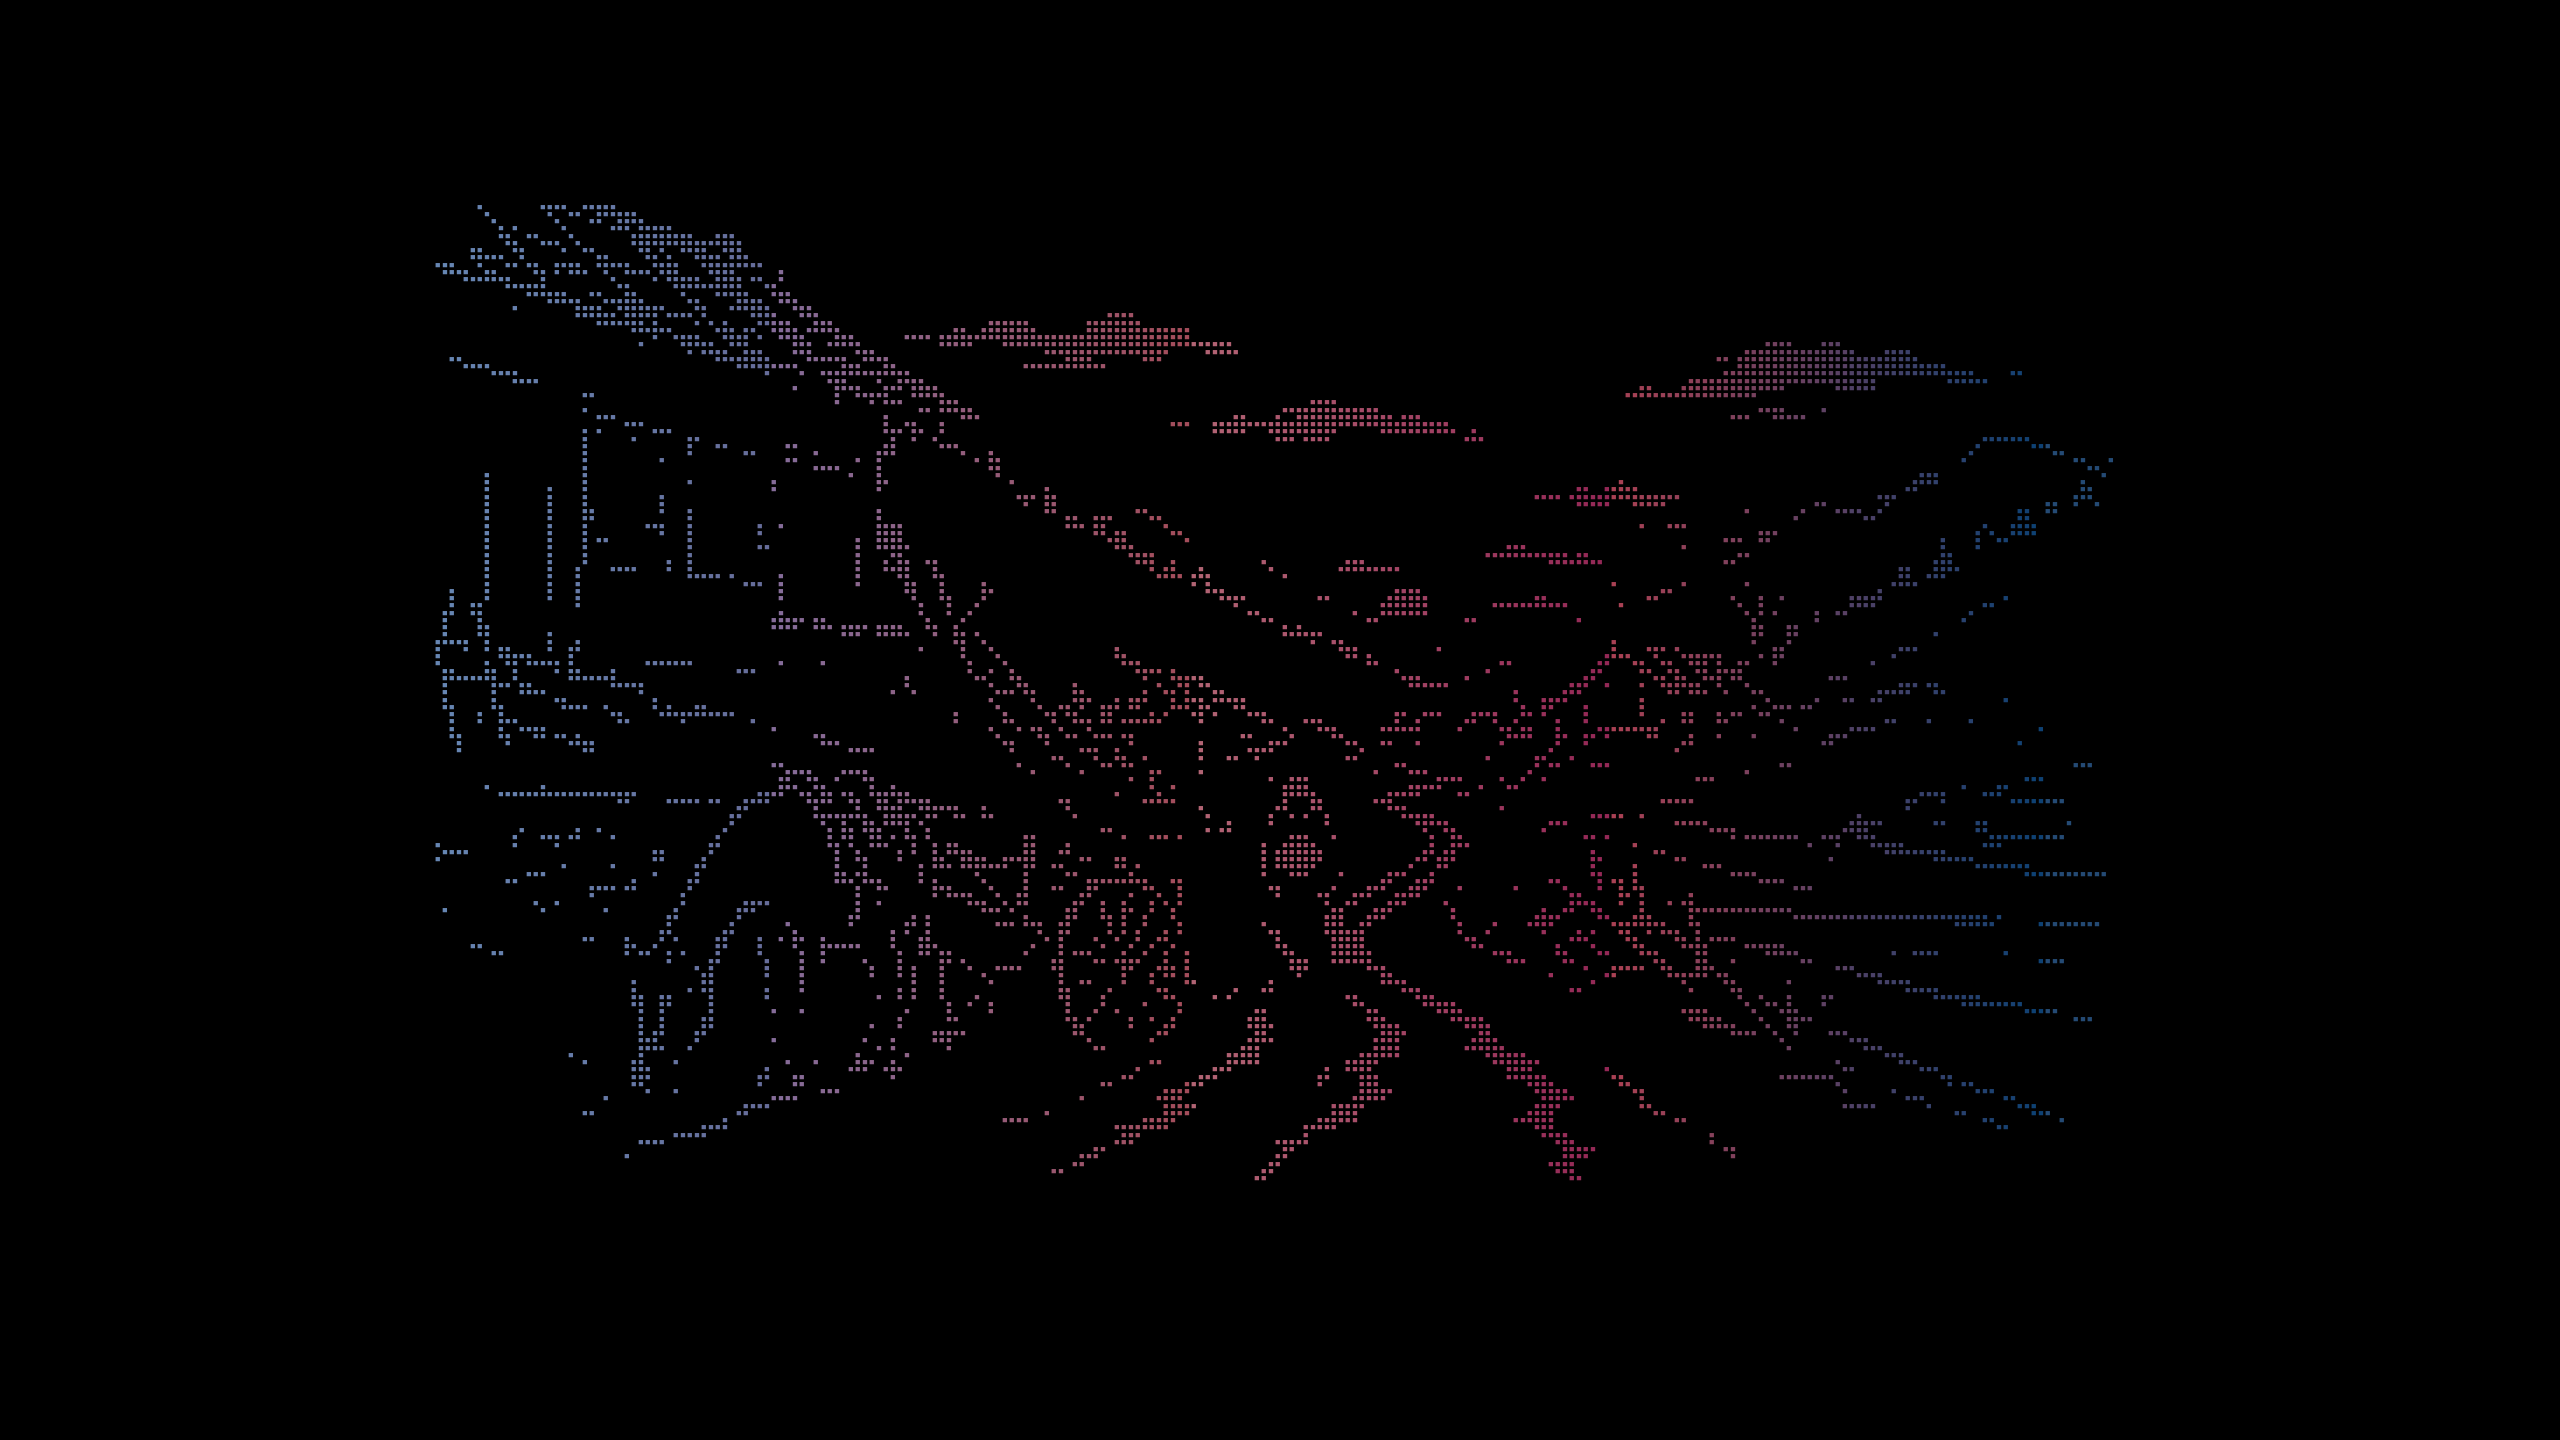
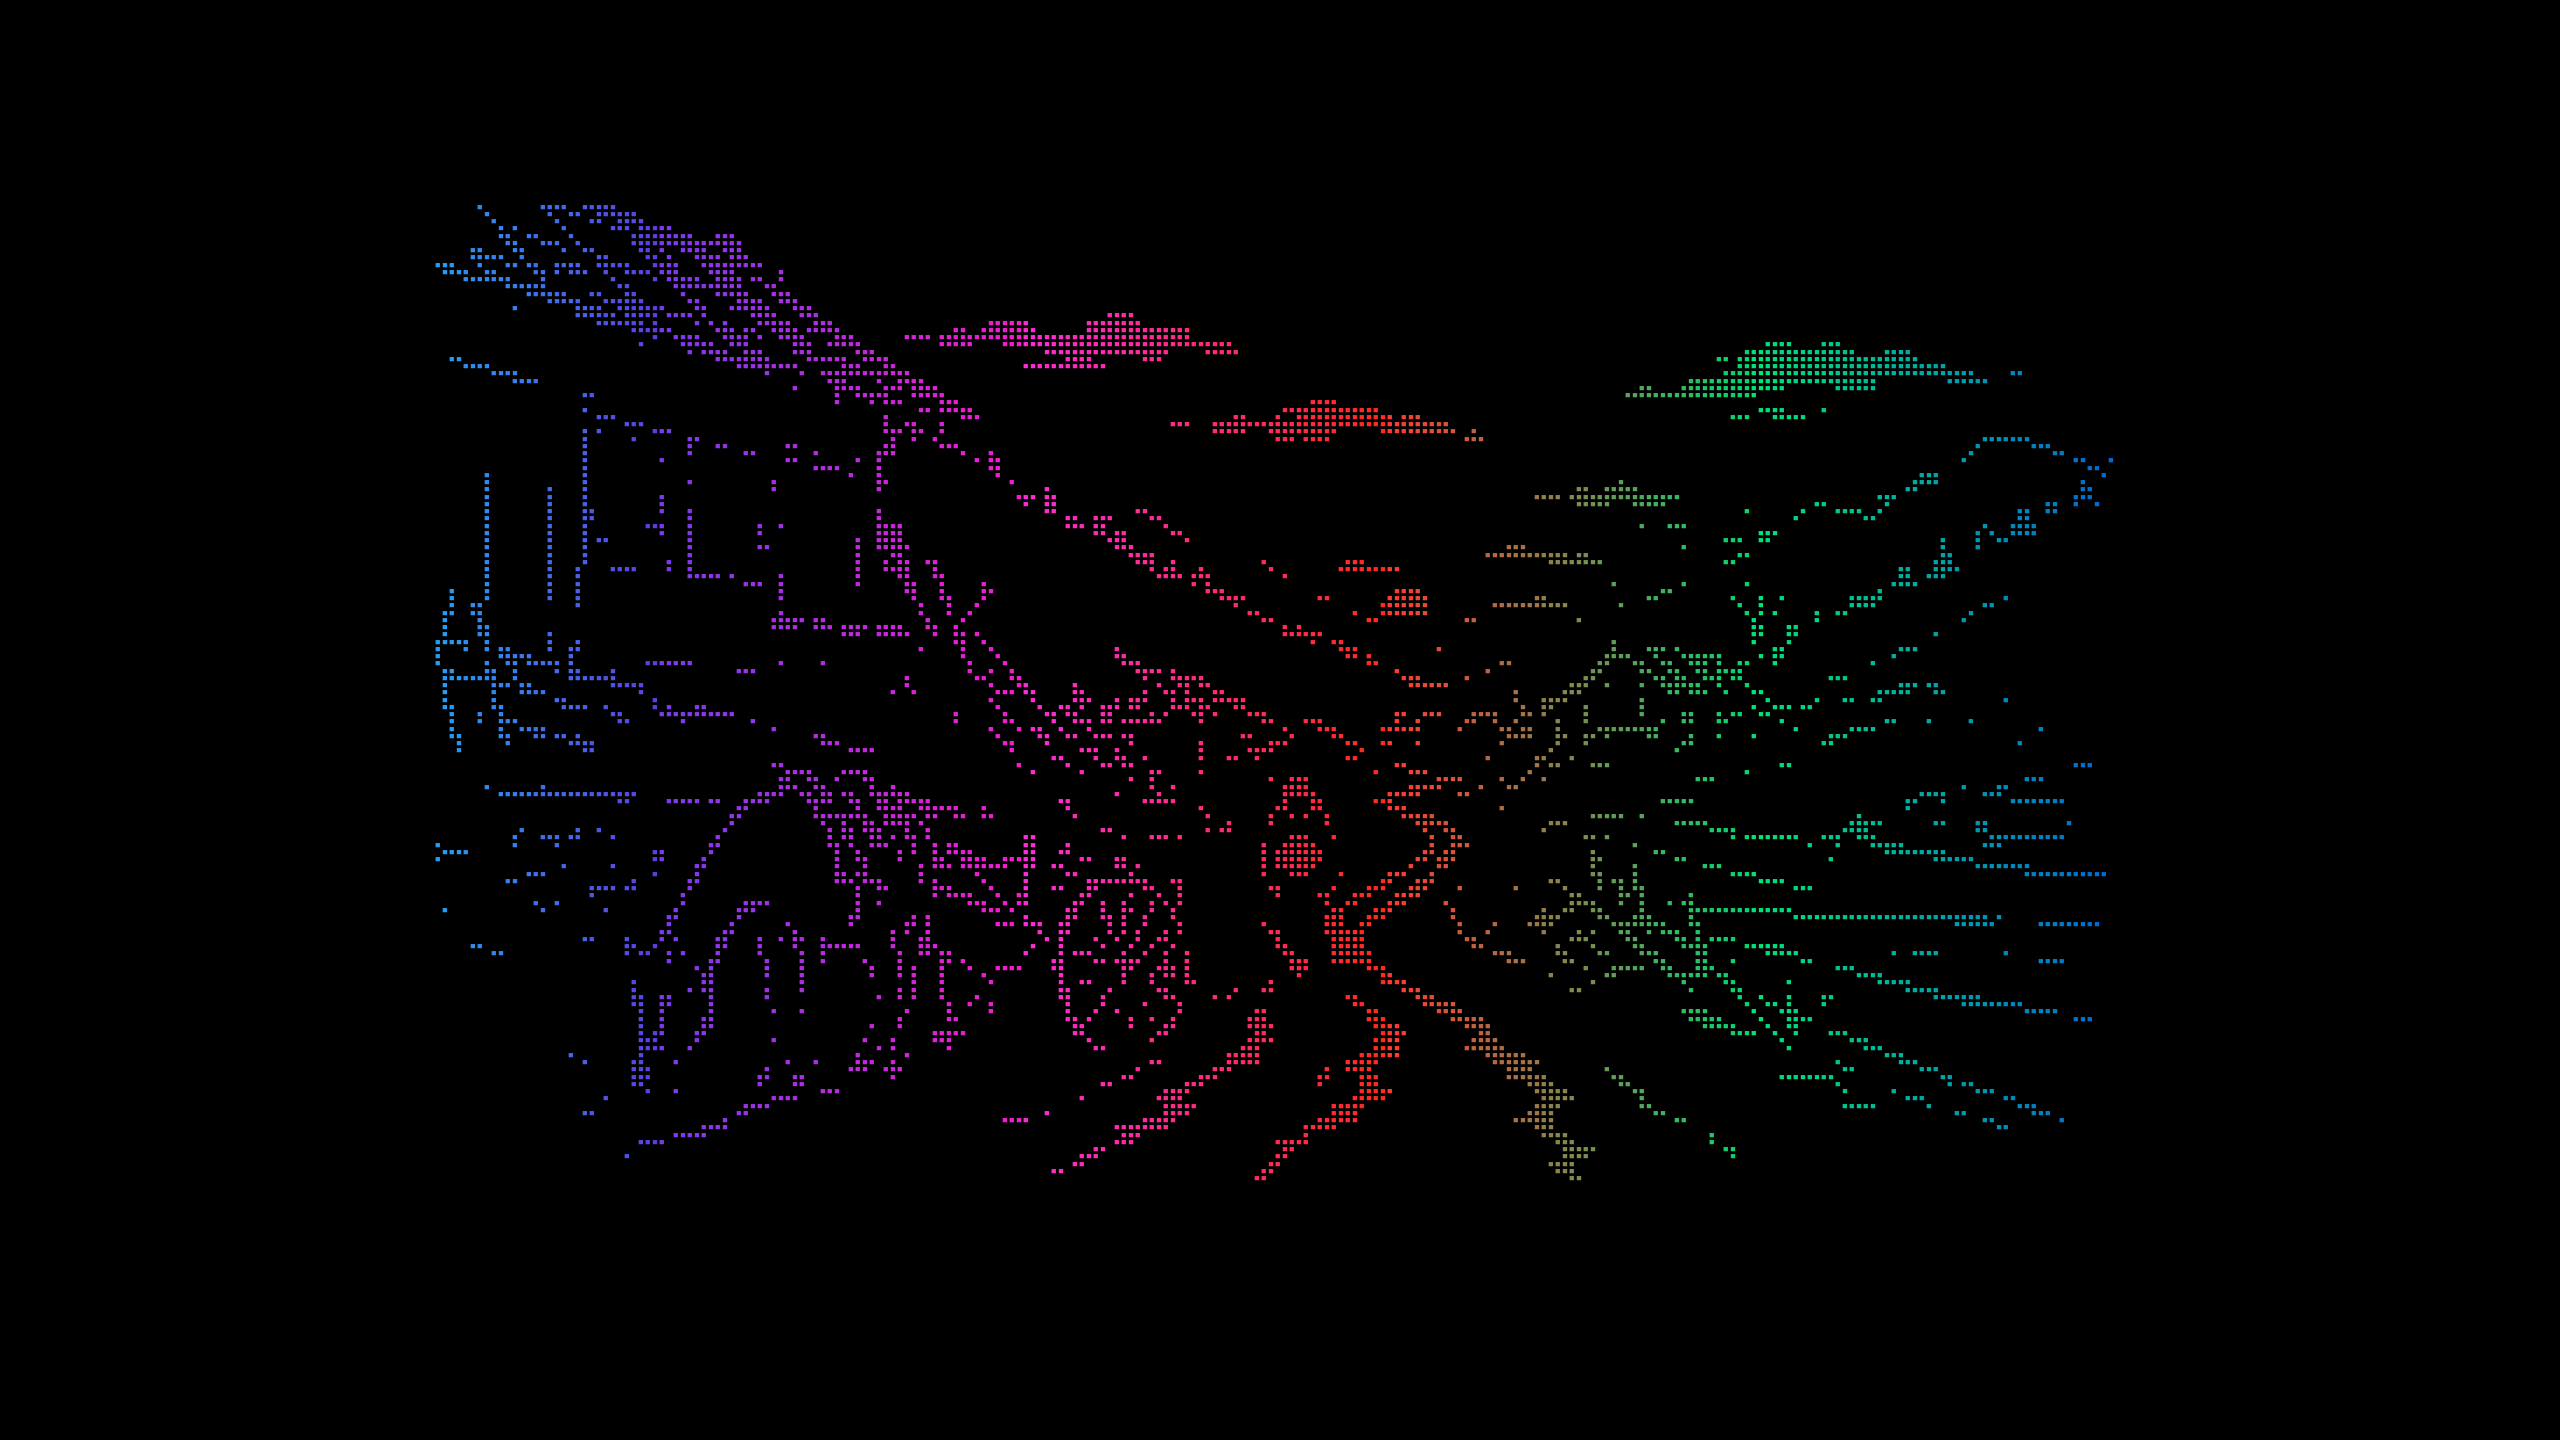
Refine screensaver with shuffled RGB scenes

diff --git a/tests/test_screensaver.py b/tests/test_screensaver.py
@@ -1,4 +1,5 @@
 """Exercise routing without launching a desktop or changing user configuration."""
+import os
 import subprocess
 import tempfile
 import unittest
@@ -10,6 +11,8 @@ class ScreensaverRouting(unittest.TestCase):
         self.temp = tempfile.TemporaryDirectory(prefix="violet-oni-routing-")
         self.addCleanup(self.temp.cleanup)
         self.root = Path(self.temp.name)
+        self.env = os.environ.copy()
+        self.env["XDG_STATE_HOME"] = str(self.root / ".state")
         self.engine = self.root / "engine"
         self.engine.write_text("#!/bin/bash\nprintf '%s\\0' \"$@\"\n")
         self.engine.chmod(0o755)
@@ -20,25 +23,41 @@ class ScreensaverRouting(unittest.TestCase):
         self.wrapper = self.root / "ttfx"
         self.wrapper.write_text(source)
         self.state = self.root / ".local/state/omarchy/current"
-        self.scene = self.state / "theme/screensaver/scene.txt"
-        self.scene.parent.mkdir(parents=True)
-        self.scene.write_text("scene\n")
+        self.scene_dir = self.state / "theme/screensaver"
+        self.scene_dir.mkdir(parents=True)
+        self.scenes = []
+        for name in ("scene-03-road-of-ashes.txt", "scene-04-last-light-valley.txt",
+                     "scene-05-ruined-shrine-road.txt", "scene-06-moonlit-mountain-pass.txt"):
+            scene = self.scene_dir / name
+            scene.write_text(name + "\n")
+            self.scenes.append(scene)
+        (self.scene_dir / "scene.txt").write_text("legacy\n")
         (self.state / "theme.name").write_text("violet-oni\n")
         self.branding = str(self.root / ".config/omarchy/branding/screensaver.txt")
         self.native = ["-i", self.branding, "--frame-rate", "120", "--canvas-width", "0",
                        "--reuse-canvas", "--random-effect", "--no-eol", "--no-restore-cursor"]
 
     def run_args(self, args):
-        result = subprocess.run(["bash", str(self.wrapper), *args], check=True, capture_output=True)
+        result = subprocess.run(["bash", str(self.wrapper), *args], check=True,
+                                capture_output=True, env=self.env)
         return result.stdout.decode().rstrip("\0").split("\0")
 
-    def test_native_invocation_gets_scene_and_slow_effect(self):
-        args = self.run_args(self.native)
-        self.assertEqual(args[args.index("-i") + 1], str(self.scene))
-        self.assertEqual(args[args.index("--frame-rate") + 1], "12")
-        self.assertNotIn("--random-effect", args)
-        self.assertIn("colorshift", args)
-        self.assertEqual(args[args.index("--gradient-frames") + 1], "4")
+    def test_native_invocation_gets_shuffled_scene_and_moderate_effect(self):
+        selected = []
+        for _ in range(12):
+            args = self.run_args(self.native)
+            selected.append(args[args.index("-i") + 1])
+            self.assertIn(selected[-1], {str(scene) for scene in self.scenes})
+            self.assertEqual(args[args.index("--frame-rate") + 1], "24")
+            self.assertNotIn("--random-effect", args)
+            self.assertIn("colorshift", args)
+            self.assertEqual(args[args.index("--gradient-frames") + 1], "8")
+            self.assertIn("087cf2", args)
+            self.assertIn("00d9ff", args)
+            self.assertIn("ff2bd6", args)
+            self.assertIn("00e676", args)
+        self.assertTrue(all(a != b for a, b in zip(selected, selected[1:])))
+        self.assertEqual(set(selected), {str(scene) for scene in self.scenes})
         self.assertIn("--reuse-canvas", args)
         self.assertIn("--no-restore-cursor", args)
 
@@ -47,7 +66,9 @@ class ScreensaverRouting(unittest.TestCase):
         self.assertEqual(self.run_args(self.native), self.native)
 
     def test_missing_scene_is_untouched(self):
-        self.scene.unlink()
+        for scene in self.scenes:
+            scene.unlink()
+        (self.scene_dir / "scene.txt").unlink()
         self.assertEqual(self.run_args(self.native), self.native)
 
     def test_ordinary_calls_are_untouched(self):

diff --git a/artwork/aftermath/PROMPTS.md b/artwork/aftermath/PROMPTS.md
@@ -29,12 +29,29 @@ omarchy transcode ascii screensaver/source.png screensaver/scene.txt --width 120
 
 The color animation is rendered at runtime by the native `ttfx colorshift` effect; it is not a video or an animated bitmap.
 
+## Ruined Shrine Road
+
+Source: `05-ruined-shrine-road-source.png`, 1672 × 941. This scene was generated as a new environmental interpretation for the multi-scene screensaver:
+
+Use case: historical-scene. Asset type: 16:9 desktop wallpaper source for an Omarchy theme. Create a cinematic photorealistic early Edo-period Japanese shrine path after a devastating war, seen at dusk from a wide quiet perspective. A damaged vermilion torii gate and small weathered shrine stand beside a winding dirt path. Torn prayer strips and faded cloth banners move gently in the wind. A broken handcart, extinguished lanterns, scattered roof tiles, and trampled grass suggest displacement without showing violence. A single tiny fully clothed adult traveler in simple period garments walks away in the middle distance; no child and no samurai character. Hills and dark cedar trees recede into smoky blue haze beneath a dramatic sunset band. Cinematic realism, tactile natural materials, historically grounded early Edo Japan, restrained film still. Deep cobalt and midnight blue shadows, cyan haze, violet transition tones, muted crimson and scarlet sunset. No active battle, bodies, gore, injuries, weapons in use, modern objects, text, logos, or watermark.
+
+## Moonlit Mountain Pass
+
+Source: `06-moonlit-mountain-pass-source.png`, 1672 × 941. This scene was generated as a new environmental interpretation for the multi-scene screensaver:
+
+Use case: historical-scene. Asset type: 16:9 desktop wallpaper source for an Omarchy theme. Create a cinematic photorealistic early Edo-period Japanese mountain pass at blue hour after war, viewed as a broad environmental landscape. A narrow road climbs between wind-bent pines and jagged dark ridges. Abandoned wooden way markers, a torn standard, a simple sheathed sword beside a travel bundle, and a half-collapsed roadside shelter suggest a vanished journey. Faint violet mist curls through the ravine like an uncanny oni presence, atmospheric and ambiguous rather than a literal creature. No child and no samurai character; no foreground people. Last light fades into blue hour with cold moonlit haze, cobalt and electric blue shadows, cyan edge light, violet and magenta mist, ember-red horizon, and small green accents in moss and distant lantern glass. No active battle, bodies, gore, injuries, modern objects, readable writing, text, logos, or watermark.
+
 ## Resolution exports
 
-Both landscape sources were resized with ImageMagick's Lanczos filter to exact 2560 × 1440 and 3840 × 2160 dimensions. These are upscaled exports, not native 1440p or 4K generations. The tiny source aspect-ratio difference is absorbed by resizing to exact 16:9.
+All four landscape sources were resized with ImageMagick's Lanczos filter to exact 2560 × 1440 and 3840 × 2160 dimensions. These are upscaled exports, not native 1440p or 4K generations. The tiny source aspect-ratio difference is absorbed by resizing to exact 16:9.
 
 ```bash
 magick source.png -filter Lanczos -resize '2560x1440!' wallpaper.png
 magick source.png -filter Lanczos -resize '3840x2160!' export-4k.png
 ```
 
+The four source images were converted to terminal scenes with the same native command shape, using scene-specific output names:
+
+```bash
+omarchy transcode ascii source.png screensaver/scene-XX-name.txt --width 120 --height 40 --mode braille --threshold 28 --invert --no-trim
+```

diff --git a/README.md b/README.md
@@ -53,12 +53,14 @@ The cinematic wallpaper is AI-generated using the built-in image generation tool
 
 ## Aftermath backgrounds
 
-Two additional cinematic landscapes bring dusk-blue shadows and muted red sunsets to the purple interface. Both depict the quiet aftermath of war in early Edo Japan, with weary adult travelers, packhorses, damaged villages, and ravaged terrain.
+Four cinematic landscapes bring dusk-blue shadows, rich RGB highlights, and muted red sunsets to the purple interface. They depict the quiet aftermath and supernatural atmosphere of early Edo Japan, with weary travelers, damaged villages, shrine paths, ravaged terrain, and mountain mist.
 
 | Background | 1440p | 4K |
 | --- | --- | --- |
 | Road of Ashes | [2560 × 1440](backgrounds/03-road-of-ashes-2560x1440.png) | [3840 × 2160](artwork/aftermath/03-road-of-ashes-3840x2160.png) |
 | Last Light Valley | [2560 × 1440](backgrounds/04-last-light-valley-2560x1440.png) | [3840 × 2160](artwork/aftermath/04-last-light-valley-3840x2160.png) |
+| Ruined Shrine Road | [2560 × 1440](backgrounds/05-ruined-shrine-road-2560x1440.png) | [3840 × 2160](artwork/aftermath/05-ruined-shrine-road-3840x2160.png) |
+| Moonlit Mountain Pass | [2560 × 1440](backgrounds/06-moonlit-mountain-pass-2560x1440.png) | [3840 × 2160](artwork/aftermath/06-moonlit-mountain-pass-3840x2160.png) |
 
 These exports are also Lanczos-upscaled from 1672 × 941 generated sources. See [aftermath prompts and provenance](artwork/aftermath/PROMPTS.md). With Violet Oni selected, cycle backgrounds using:
 
@@ -68,7 +70,7 @@ omarchy theme bg next
 
 ## Slow animated ASCII screensaver
 
-The optional screensaver presents a simplified road, horse, traveler, and village as Unicode braille text art. A slow blue → violet → muted red color wave takes approximately 53 seconds per cycle, using Omarchy's existing `ttfx` engine at 12 frames per second.
+The optional screensaver shuffles four simplified landscape scenes as Unicode braille text art. Each scene receives a moderate animated reveal and rich RGB wave for approximately 11 seconds, using Omarchy's existing `ttfx` engine at 24 frames per second. The palette travels through electric blue, cyan, violet, magenta, red, and green before repeating.
 
 ![Violet Oni ASCII screensaver running on a 1440p monitor](screensaver/preview.png)
 

diff --git a/screensaver/README.md b/screensaver/README.md
@@ -1,6 +1,6 @@
 # Animated ASCII screensaver
 
-This optional helper uses Omarchy's installed `ttfx` engine and native screensaver launcher. It displays the supplied text-art scene with a slow blue → violet → muted red → blue color wave, at 12 frames per second and approximately 53 seconds per gradient cycle.
+This optional helper uses Omarchy's installed `ttfx` engine and native screensaver launcher. It shuffles four supplied text-art scenes, suppressing immediate repeats. Each pass takes approximately 11 seconds with a moderate reveal and a rich electric-blue → cyan → violet → magenta → red → green color wave at 24 frames per second.
 
 Install the theme first, then opt into the helper:
 
@@ -9,7 +9,9 @@ bash ~/.config/omarchy/themes/violet-oni/screensaver/install.sh
 omarchy launch screensaver force
 ```
 
-The helper is installed as `~/.local/bin/ttfx`. That directory must resolve before `/usr/bin` in the desktop's PATH. It intercepts only the native screensaver's exact branding-file invocation while `violet-oni` is selected and `screensaver/scene.txt` is present in the active theme. Other calls and other themes execute the original `/usr/bin/ttfx` with their arguments unchanged.
+The helper is installed as `~/.local/bin/ttfx`. That directory must resolve before `/usr/bin` in the desktop's PATH. It intercepts only the native screensaver's exact branding-file invocation while `violet-oni` is selected and at least one `scene-*.txt` file is present in the active theme. Other calls and other themes execute the original `/usr/bin/ttfx` with their arguments unchanged.
+
+The four bundled scenes are `scene-03-road-of-ashes.txt`, `scene-04-last-light-valley.txt`, `scene-05-ruined-shrine-road.txt`, and `scene-06-moonlit-mountain-pass.txt`. The last selected path is stored under `${XDG_STATE_HOME:-~/.local/state}/omarchy/violet-oni-screensaver/last-scene` so simultaneous monitor launches can coordinate without changing the theme files.
 
 Theme installation alone never executes this installer. No packaged Omarchy files, idle timings, lock settings, or existing branding text are modified. Omarchy continues to launch one terminal per monitor and to control screensaver dismissal and the lock deadline.
 
